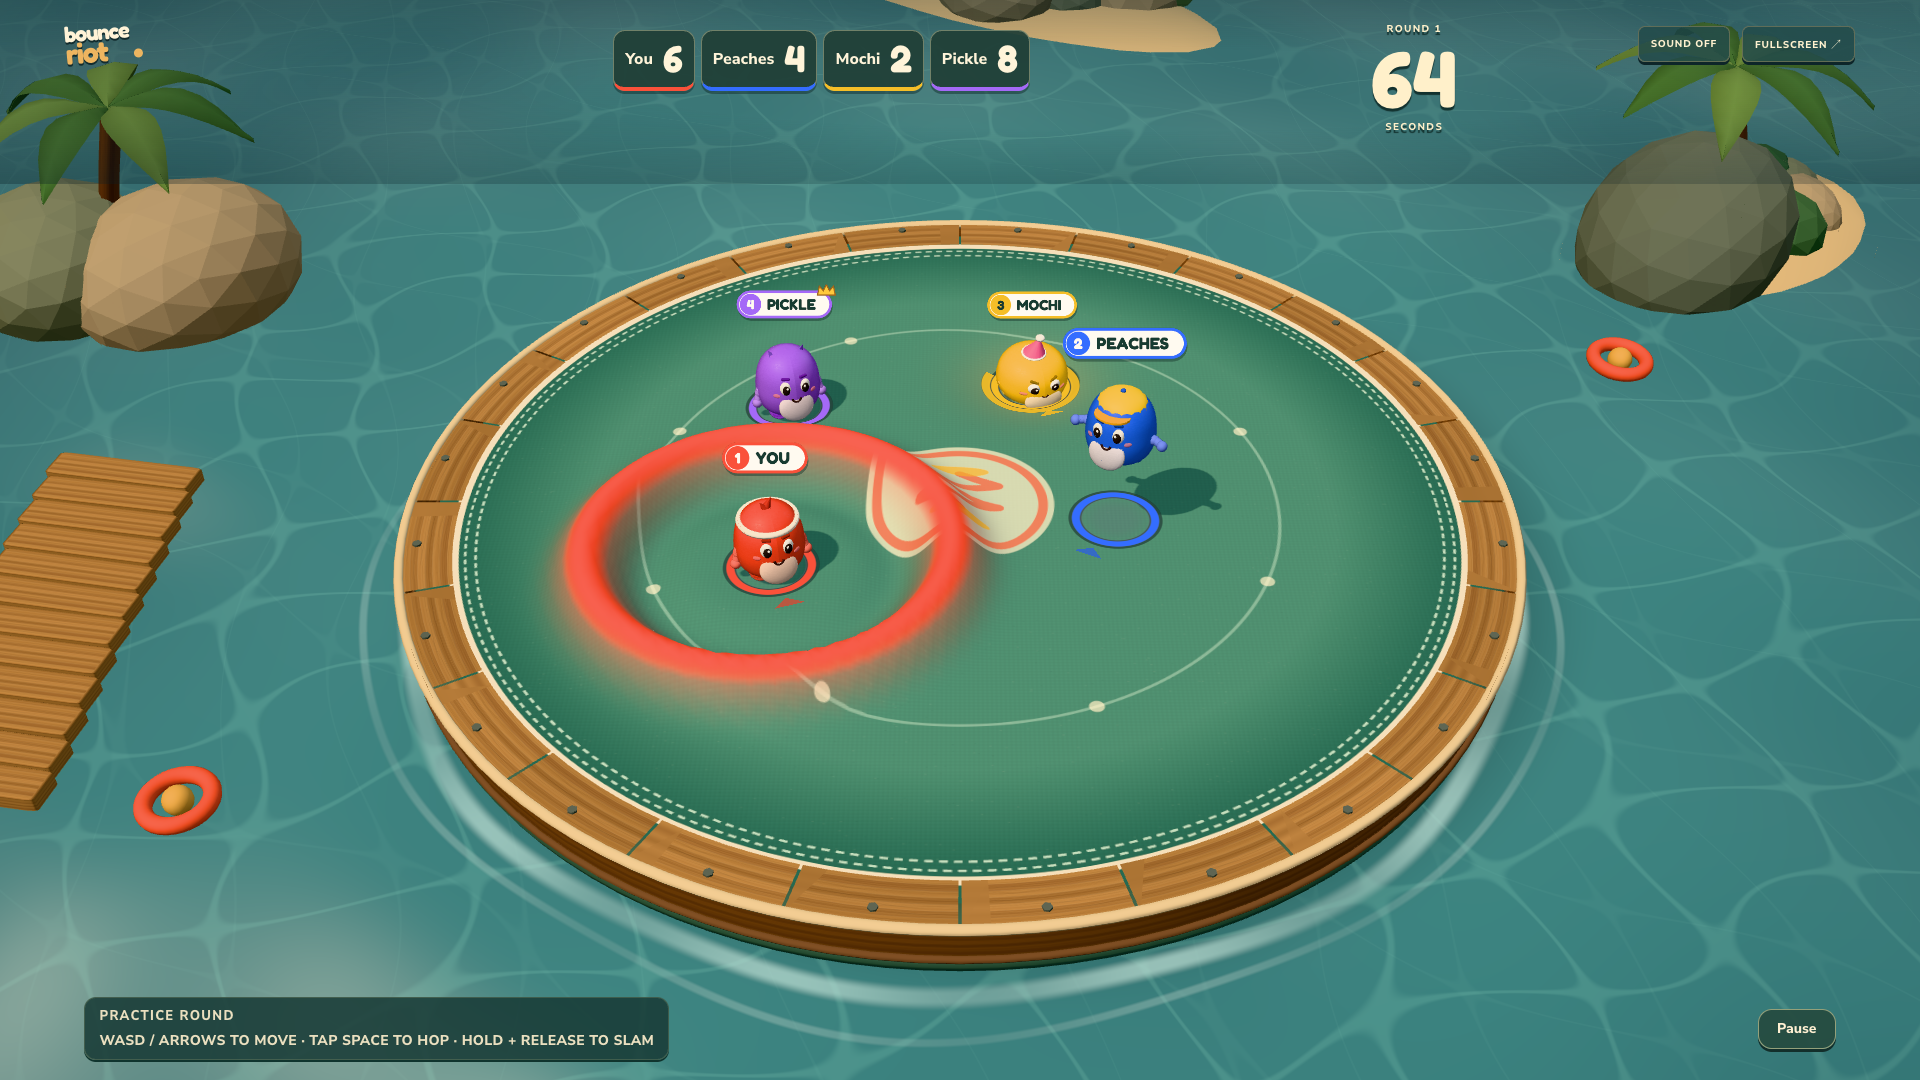
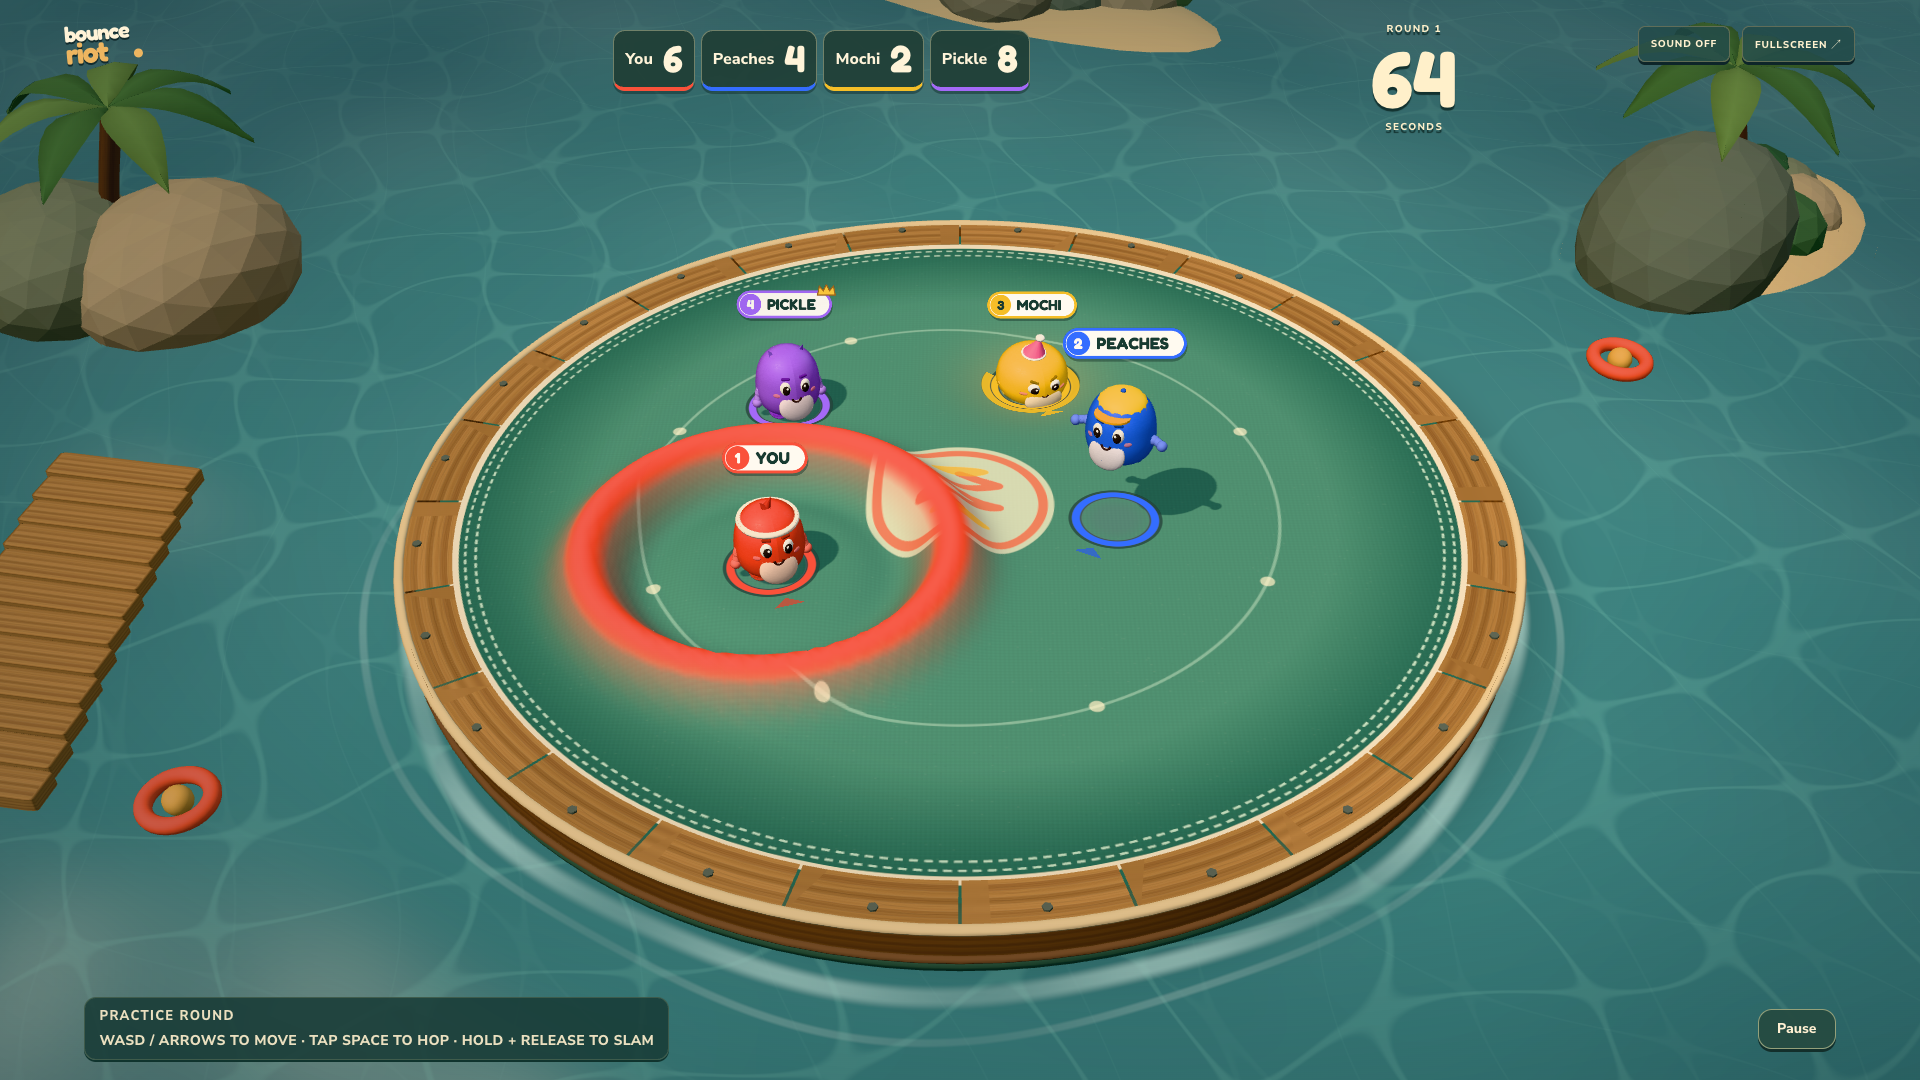
Finish the cove overlays and lock TV contrast regressions

diff --git a/src/ui/host.css b/src/ui/host.css
@@ -3,7 +3,7 @@ body.host-mode{background:#234d4f;color:#fff2d6}
 .host-mode #app .host-shell{background:#234d4f;min-height:540px;height:100dvh}
 .host-mode #app .arena-view{inset:0;width:100%;height:100%;display:block}
 .host-mode #app .arena-view:after{display:none}
-.host-mode #app .host-shell:before{content:'';position:absolute;inset:0;z-index:1;pointer-events:none;background:radial-gradient(ellipse at 59% 49%,transparent 30%,#071d2452 100%)}
+.host-mode #app .host-shell:before{content:'';position:absolute;inset:0;height:100%;z-index:1;pointer-events:none;background:radial-gradient(ellipse at 59% 49%,transparent 30%,#071d2452 100%)}
 .host-mode #app.title-screen .host-shell:after{content:'';position:absolute;inset:0;z-index:1;pointer-events:none;background:linear-gradient(90deg,#102d32cc 0%,#173e3f8c 25%,transparent 61%)}
 .host-mode .host-header{height:88px;padding:18px 3.4%;z-index:10}
 .host-mode .header-right>.tiny-label{display:none}
@@ -69,4 +69,4 @@ body.host-mode{background:#234d4f;color:#fff2d6}
 @media(max-width:1100px) and (min-width:800px){.host-mode .home-panel{left:6%;width:29vw}.host-mode .menu-action{padding-left:16px}.host-mode .menu-action>span{font-size:23px}.host-mode .lobby-panel{left:3%;width:42%}}
 @media(max-width:799px){.host-mode{overflow:auto}.host-mode #app .host-shell{min-height:680px}.host-mode .home-panel{top:50%;left:50%;transform:translate(-50%,-50%);width:min(310px,78%)}.host-mode .home-panel .game-title{font-size:47px}.host-mode .menu-kicker{font-size:8px}.host-mode .menu-action{min-height:58px}.host-mode .menu-action>span{font-size:23px}.host-mode .title-screen .host-shell:after{background:#0c2d2f95!important}.host-mode .lobby-panel{top:90px;left:5%;width:90%;bottom:26px;padding:20px}.host-mode .lobby .arena-view{left:0!important;width:100%!important}.host-mode .host-header{padding:13px 5%;height:68px}.host-mode .host-header .icon-button{font-size:8px;min-height:32px}.host-mode .host-footer>span{display:none}.host-mode .host-footer{justify-content:center}.host-mode .host-footer>div{gap:18px}.host-mode #app.match-active .host-shell{min-height:500px}.host-mode .settings-panel{padding:24px}.host-mode .join-announcement{left:6%;right:6%;top:auto;bottom:8px}}
 
-.host-mode .lobby .arena-view:after{content:'';display:block!important;position:absolute;inset:0;pointer-events:none;background:linear-gradient(90deg,#234d4f,transparent 12%)}
+.host-mode #app.lobby .arena-view:after{content:'';display:block!important;position:absolute;inset:0;pointer-events:none;background:linear-gradient(90deg,#234d4f,transparent 12%)}

diff --git a/tests/e2e/layout.spec.ts b/tests/e2e/layout.spec.ts
@@ -13,6 +13,10 @@ for (const viewport of [{ width: 1280, height: 720 }, { width: 1920, height: 108
     for (let i = 0; i < 4; i++) await page.locator('#add-bot').click();
     await page.locator('#start-button').click();
     await expect(page.locator('#arena-view canvas')).toBeVisible();
+    // The old 17% header scrim must not crop the new full-screen vignette into a hard line.
+    const overlayHeight = await page.locator('.host-shell').evaluate(el => parseFloat(getComputedStyle(el, '::before').height));
+    expect(overlayHeight).toBeCloseTo(viewport.height, 0);
+    await expect(page.locator('#pause-button')).toHaveCSS('color', 'rgb(255, 240, 210)');
     expect(await page.evaluate(() => document.documentElement.scrollWidth <= innerWidth)).toBe(true);
     await expect(page.locator('#score-strip .score-item')).toHaveCount(8);
     await expect(page.locator('#score-strip')).toHaveClass(/crowded/);

diff --git a/tests/e2e/menu.spec.ts b/tests/e2e/menu.spec.ts
@@ -34,6 +34,9 @@ for (const viewport of [{ width: 1280, height: 720 }, { width: 1920, height: 108
     await page.keyboard.press('Enter');
     await expect(page.locator('#lobby-panel')).toBeVisible();
     await expect(page.locator('#lobby-roster .roster-player')).toHaveCount(4);
+    const lobbyEdge = await page.locator('#arena-view').evaluate(el => getComputedStyle(el, '::after').backgroundImage);
+    expect(lobbyEdge).toContain('rgb(35, 77, 79)');
+    expect(lobbyEdge).not.toContain('rgb(245, 239, 223)');
   });
 }
 

diff --git a/docs/BUILD-CONTRACT.md b/docs/BUILD-CONTRACT.md
@@ -21,9 +21,10 @@ Export class ArenaScene from src/render/scene.ts.
 - render(state: GameState, dt: number): void (application handles requestAnimationFrame)
 - resize(): void
 - dispose(): void
-- setMatchView(active: boolean): void (selects the fixed menu or match framing)
+- setMatchView(active: boolean): void (selects the fixed lobby or match framing)
+- setHomeView(active: boolean): void (moves the diorama beside the compact title menu)
 - setQuality(quality: 'auto'|'low'|'high'): void
-No DOM/UI or networking dependencies. Three.js available. Dispose listeners, GPU resources. For menu state show arena beautifully without needing live game. Characters procedural but sculpted, no primitive placeholder vibe. Use events with unique IDs without reprocessing. Label names can use CSS2DRenderer or canvas sprite but avoid massive textures per frame. Render a physical spring floor with animated traveling waves that visually match simulation. Camera fixed, full arena visible, no gameplay zoom. Distinct characters, visible direction/charge, shadows, stage rim, short springs and an inflatable pontoon on animated lagoon water. No sky, clouds or foam pit. Separate fixed menu/match framing keeps the larger match board visible. Correct lighting/sRGB, anti-aliasing with capped DPR, affordable for TV. Reduced motion disables shake/confetti excess, no flashes.
+No DOM/UI or networking dependencies. Three.js available. Dispose listeners, GPU resources. For menu state show arena beautifully without needing live game. Characters procedural but sculpted, no primitive placeholder vibe. Use events with unique IDs without reprocessing. Label names can use CSS2DRenderer or canvas sprite but avoid massive textures per frame. Render a physical spring floor with animated traveling waves that visually match simulation. Camera fixed, full arena visible, no gameplay zoom. Distinct characters with expressive visual poses, visible direction/charge, shadows, a wooden stage rim, stitched canvas and a slim floating base on animated cove water. Batched rocks, palms and a jetty stay outside the playing field. No sky, clouds or foam pit. Separate fixed title/lobby/match framing keeps the whole board visible without crowding the menu or HUD. Correct lighting/sRGB, anti-aliasing with capped DPR, affordable for TV. Reduced motion disables shake/confetti excess, no flashes.
 
 ## Room service protocol
 All messages JSON over websocket, maximum 16KB. Node.js Lambda handler and local ws server should share a tested hub. Server assigns identities and verifies permissions. Never trust client-provided from/role/slot.

diff --git a/docs/TV-CHECKLIST.md b/docs/TV-CHECKLIST.md
@@ -6,7 +6,7 @@ Automated browser clients do not replace testing on the actual TV and phones. Us
 - Open the stable public game URL on the TV. Try Low graphics if the animated menu stutters.
 - Use the TV's low-latency game mode if available. Disable motion interpolation if it adds visible delay.
 - Put TV and phones on the same normal Wi-Fi, not an isolated guest network.
-- Keep the TV page visible and choose Host a party.
+- Keep the TV page visible and choose Play (Host a party).
 - Scan from one Android phone and one iPhone if available.
 - Confirm the controller says DIRECT TO TV or CONNECTED VIA RELAY. Both are supported; direct is preferred.
 - On Android, enter fullscreen. On iPhone, optionally launch from Add to Home Screen and rejoin.
